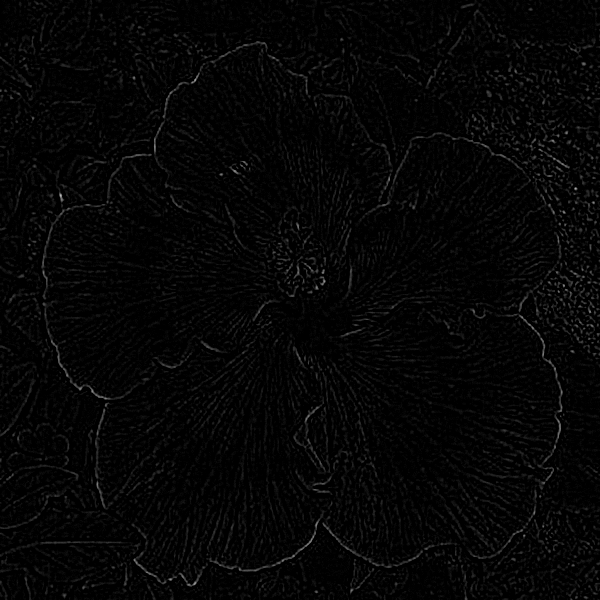
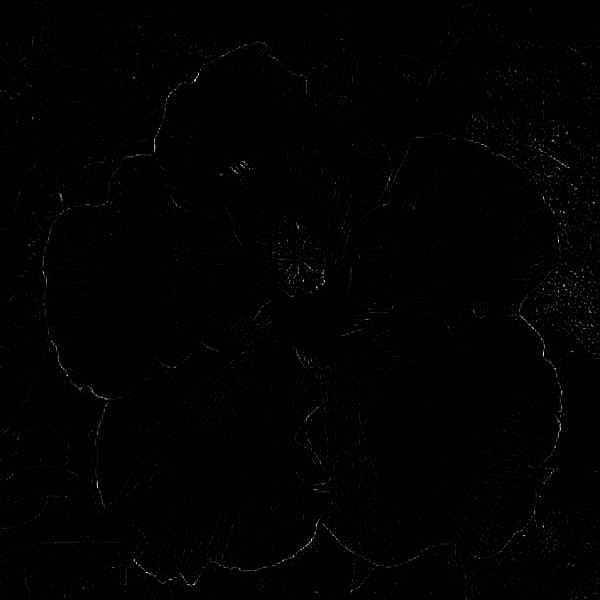
Tweaked some image processing.

diff --git a/ignisilva/ImageProcessing.cs b/ignisilva/ImageProcessing.cs
@@ -66,11 +66,10 @@ namespace ignisilva
                         }
                     }
 
-                    value *= 255.0f;
-                    if( value > 255.0f ) value = 255.0f;
-                    if( value < 0.0f ) value = 0.0f;
+                    value *= Clamp( value, 0.0f, 1.0f );
 
-                    Color outputColor = Color.FromArgb( (byte)value, (byte)value, (byte)value );
+                    Color inputColor = Color.White;// input.GetPixel( x, y );
+                    Color outputColor = Color.FromArgb( (byte)(inputColor.R*value), (byte)(inputColor.G*value), (byte)(inputColor.B*value) );
                     output.SetPixel( x, y, outputColor );
                 }
             }

diff --git a/ignisilva/Program.cs b/ignisilva/Program.cs
@@ -17,7 +17,7 @@ namespace ignisilva
             Bitmap image = new Bitmap( Image.FromFile( "../../../images/flower.jpg" ) );
 
             Bitmap gaussian = image;
-            for( int i = 0; i < 1; ++i )
+            for( int i = 0; i < 0; ++i )
             {
                 gaussian = ImageProcessing.ImageKernal( gaussian, ImageProcessing.GaussianBlurKernal );
             }
